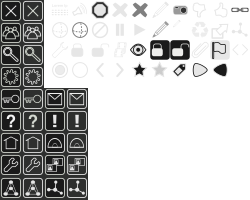
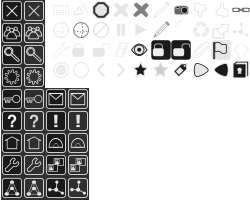
implement filer/file-as

diff --git a/view/theme/dispy-dark/style.css b/view/theme/dispy-dark/style.css
@@ -947,7 +947,7 @@ aside #viewcontacts {
     background-color: #3e3f3e;
 	color: #eec;
     border: 1px #eec solid;
-    border-radius: 3px;
+    border-radius: 5px;
     padding: 3px 3px 6px 10px;
 }
 #jot-preview-content .wall-item-outside-wrapper {
@@ -2033,6 +2033,16 @@ div[id$="wrapper"] br {
 	opacity: 1.0 !important;
 	filter:alpha(opacity=100) !important;
 }
+.filesavetags {
+	margin: 20px 0;
+	opacity: 0.5;
+	filter:alpha(opacity=50);
+}
+.filesavetags:hover {
+	margin: 20px 0;
+	opacity: 1.0 !important;
+	filter:alpha(opacity=100) !important;
+}
 .item-select {
 	opacity: 0.1;
 	filter:alpha(opacity=10);
@@ -2484,6 +2494,9 @@ div[id$="wrapper"] br {
 .dislike {
 	background-position: -190px 0;
 }
+.file-as {
+	background-position: -230px -60px;
+}
 .like {
 	background-position: -211px 0;
 }
@@ -2570,9 +2583,9 @@ div[id$="wrapper"] br {
 }
 .border, .border:hover {
 	border: 1px solid #babdb6;
-    -webkit-border-radius: 3px;
-    -moz-border-radius: 3px;
-    border-radius: 3px;	
+    -webkit-border-radius: 5px;
+    -moz-border-radius: 5px;
+    border-radius: 5px;	
 }
 .attachtype {
     display: block;

diff --git a/view/theme/dispy/style.css b/view/theme/dispy/style.css
@@ -2023,6 +2023,16 @@ div[id$="wrapper"] br {
 	opacity: 1.0 !important;
 	filter:alpha(opacity=100) !important;
 }
+.filesavetags {
+	margin: 20px 0;
+	opacity: 0.5;
+	filter:alpha(opacity=50);
+}
+.filesavetags:hover {
+	margin: 20px 0;
+	opacity: 1.0 !important;
+	filter:alpha(opacity=100) !important;
+}
 .item-select {
 	opacity: 0.1;
 	filter:alpha(opacity=10);
@@ -2473,6 +2483,9 @@ div[id$="wrapper"] br {
 }
 .dislike {
 	background-position: -190px 0;
+}
+.file-as {
+	background-position: -230px -60px;
 }
 .like {
 	background-position: -211px 0;
